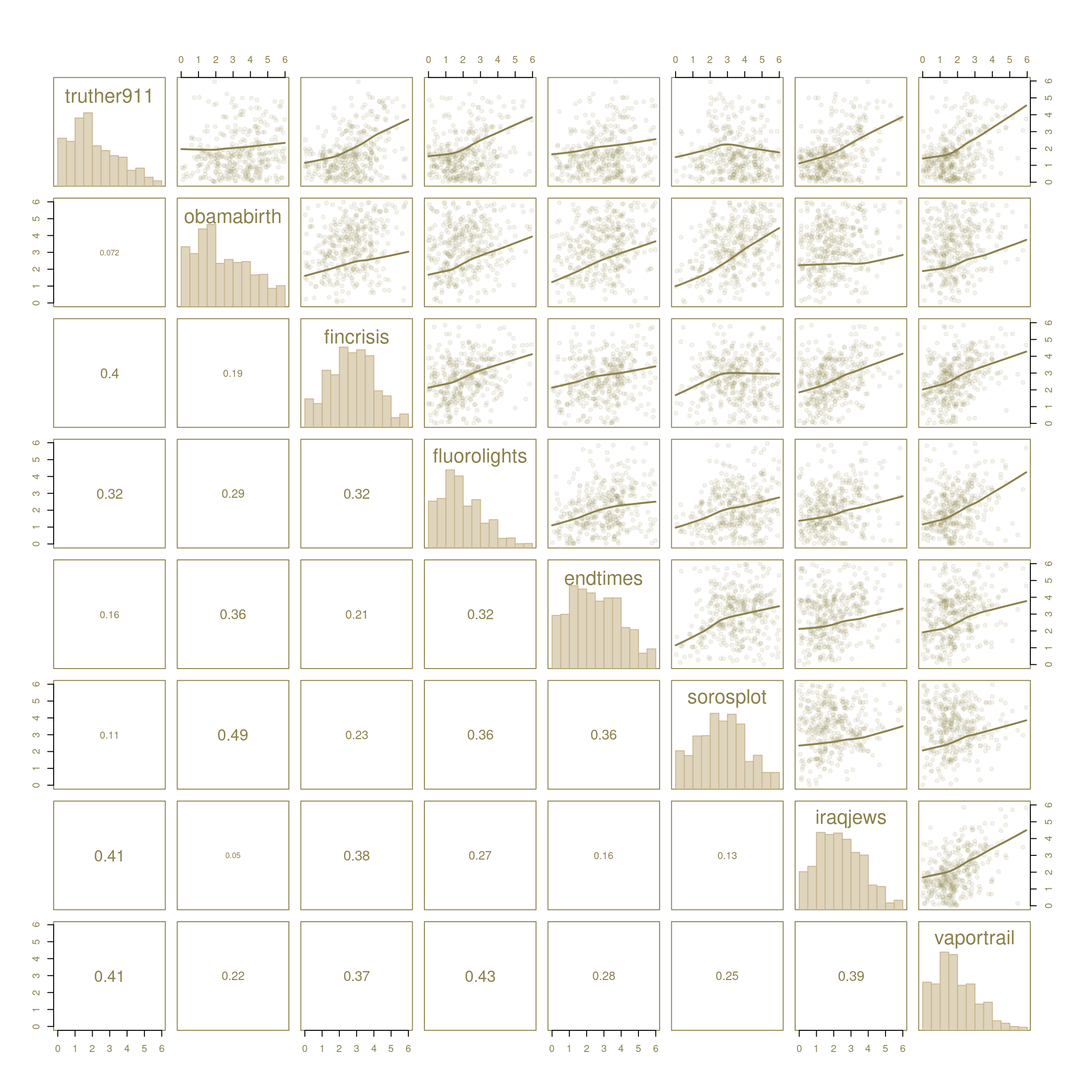
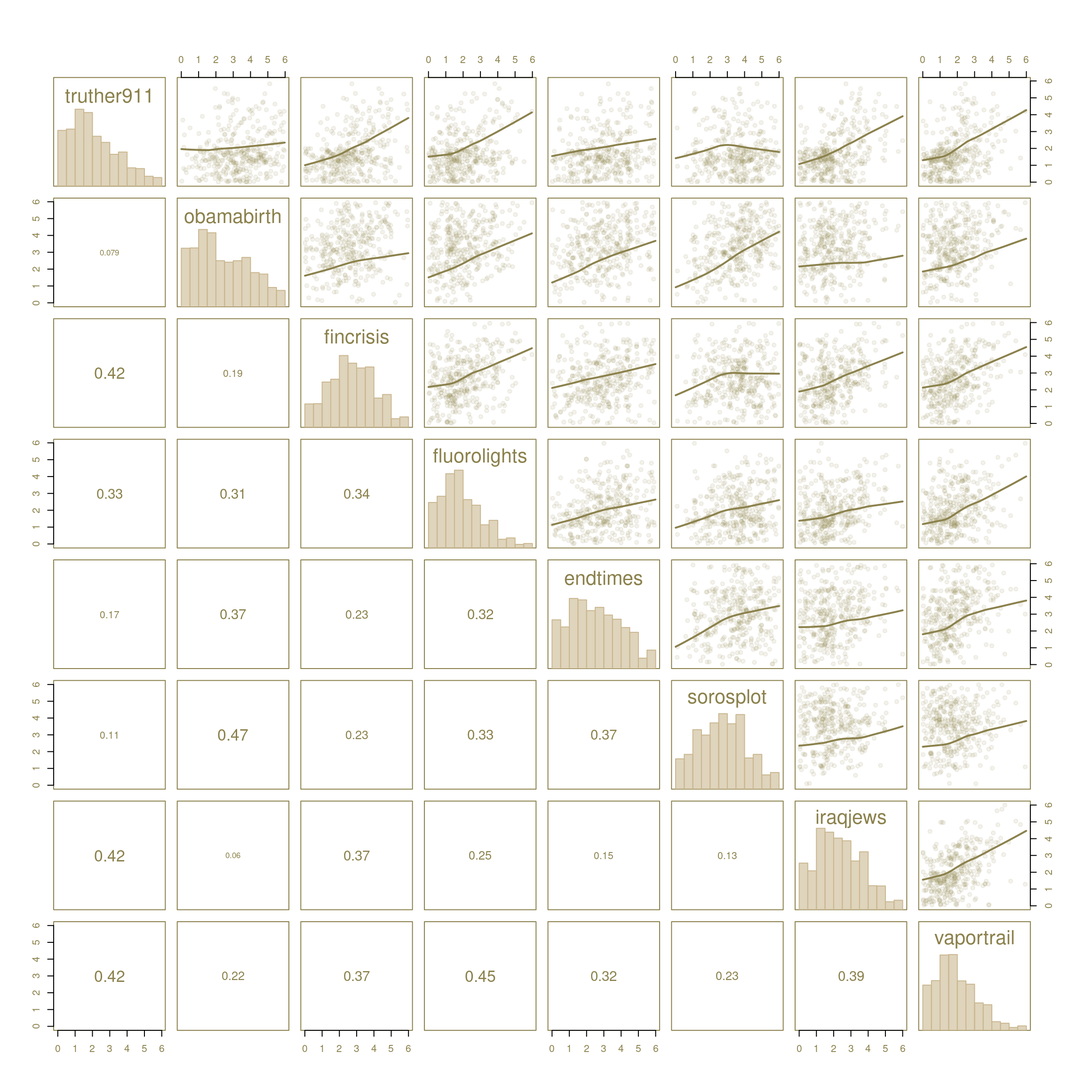
completed data description section, wrote explanation of plots for visualize data sections, wrote explanation for PCA section: pca fit summary table, screeplot, & biplot. pasted T's conclusion & added bibtex & tag for citation cross reference. added bibtex for original dataset & study.

diff --git a/index.html b/index.html
@@ -9,7 +9,7 @@
 <meta name="author" content="Brandy Carr">
 <meta name="author" content="Lee">
 <meta name="author" content="Tavish">
-<meta name="dcterms.date" content="2022-11-21">
+<meta name="dcterms.date" content="2022-11-22">
 
 <title>PCA (principal component analysis)</title>
 <style>
@@ -138,15 +138,15 @@ div.csl-indent {
   <li><a href="#introduction" id="toc-introduction" class="nav-link active" data-scroll-target="#introduction"><span class="toc-section-number">1</span>  Introduction</a></li>
   <li><a href="#methods" id="toc-methods" class="nav-link" data-scroll-target="#methods"><span class="toc-section-number">2</span>  Methods</a>
   <ul class="collapse">
-  <li><a href="#assumptions" id="toc-assumptions" class="nav-link" data-scroll-target="#assumptions"><span class="toc-section-number">2.1</span>  Assumptions</a></li>
-  <li><a href="#sample-data" id="toc-sample-data" class="nav-link" data-scroll-target="#sample-data"><span class="toc-section-number">2.2</span>  Sample Data</a></li>
-  <li><a href="#equations" id="toc-equations" class="nav-link" data-scroll-target="#equations"><span class="toc-section-number">2.3</span>  Equations</a></li>
+  <li><a href="#assumptions" id="toc-assumptions" class="nav-link" data-scroll-target="#assumptions">Assumptions</a></li>
+  <li><a href="#sample-data" id="toc-sample-data" class="nav-link" data-scroll-target="#sample-data">Sample Data</a></li>
+  <li><a href="#equations" id="toc-equations" class="nav-link" data-scroll-target="#equations">Equations</a></li>
   </ul></li>
   <li><a href="#analysis-and-results" id="toc-analysis-and-results" class="nav-link" data-scroll-target="#analysis-and-results"><span class="toc-section-number">3</span>  Analysis and Results</a>
   <ul class="collapse">
-  <li><a href="#packages" id="toc-packages" class="nav-link" data-scroll-target="#packages"><span class="toc-section-number">3.1</span>  Packages</a></li>
-  <li><a href="#data" id="toc-data" class="nav-link" data-scroll-target="#data"><span class="toc-section-number">3.2</span>  Data</a></li>
-  <li><a href="#pca" id="toc-pca" class="nav-link" data-scroll-target="#pca"><span class="toc-section-number">3.3</span>  PCA</a></li>
+  <li><a href="#packages" id="toc-packages" class="nav-link" data-scroll-target="#packages">Packages</a></li>
+  <li><a href="#data" id="toc-data" class="nav-link" data-scroll-target="#data">Data</a></li>
+  <li><a href="#pca" id="toc-pca" class="nav-link" data-scroll-target="#pca">PCA</a></li>
   </ul></li>
   <li><a href="#conclusion" id="toc-conclusion" class="nav-link" data-scroll-target="#conclusion"><span class="toc-section-number">4</span>  Conclusion</a></li>
   <li><a href="#references" id="toc-references" class="nav-link" data-scroll-target="#references"><span class="toc-section-number">5</span>  References</a></li>
@@ -176,7 +176,7 @@ div.csl-indent {
     <div>
     <div class="quarto-title-meta-heading">Published</div>
     <div class="quarto-title-meta-contents">
-      <p class="date">November 21, 2022</p>
+      <p class="date">November 22, 2022</p>
     </div>
   </div>
     
@@ -223,14 +223,6 @@ div.csl-indent {
 </style>
 <section id="introduction" class="level2" data-number="1">
 <h2 data-number="1" data-anchor-id="introduction"><span class="header-section-number">1</span> Introduction</h2>
-<ul>
-<li>Explains the background of research on a topic.</li>
-<li>Demonstrates why a topic is significant to a subject area.</li>
-<li>Discovers relationships between research studies/ideas.</li>
-<li>Identifies major themes, concepts, and researchers on a topic.</li>
-<li>Identifies critical gaps and points of disagreement.</li>
-<li>Discusses further research questions that logically come out of the previous studies.</li>
-</ul>
 <p>Principal Component Analysis (PCA) is an unsupervised machine learning method (<a href="#fig-machineLearning">Figure&nbsp;1</a>) that can be used as the first step in data analysis. The main goal of PCA is to reduce the number of dimensions/features while retaining most of the original variability. Reducing the number of features makes it easier to graphically visualize hidden patterns in the data, it’s also useful when encountering a high number of predictor variables or highly correlated variables when running a regression model <span class="citation" data-cites="lang2021applied">(<a href="#ref-lang2021applied" role="doc-biblioref">Lang and Qiu 2021</a>)</span>. Using a clustering algorithm, such as k-means, after the data has been transformed with PCA is a powerful method to use on high dimensional data containing linearly correlated features <span class="citation" data-cites="Alkha">(<a href="#ref-Alkha" role="doc-biblioref">Alkhayrat, Aljnidi, and Aljoumaa 2020</a>)</span>.</p>
 <p>The most important use of PCA is to represent a multivariate data table as smaller set of variables (summary indices) to observe hidden trends, jumps, clusters, patterns and outliers.</p>
 <p>PCA is a broadly used statistical method whose use stretches across many scientific disciplines, and in turn many different adaptations of PCA have been developed based on the variation in goals and data types associated with each respective discipline. PCA was developed first by Pearson (1901) and Hotelling (1933) <span class="citation" data-cites="Camargo">(<a href="#ref-Camargo" role="doc-biblioref">A 2022</a>)</span>. This technique transforms some number of possibly correlated variables into a smaller number of variables, the variables in this smaller matrix are referred to as the Principal Components (PC). This is achieved using a vector space transform. By mathematical projection we can interpret the original data set with just a few variables, namely the principal components achieved through calculation. The purpose of reducing dimension size in large data sets is to make it easier to spot trends, patterns, and outliers in data where that information would have previously been hidden by the size of data set of interest (Richardson). The information being preserved in the process of reduction is the variability in the data (i.e.&nbsp;the statistical information present in the data). In order to preserve as much variability as possible we should “…find new variables that are linear functions of those in the original data set, that successively maximize variance and that are uncorrelated with each other” <span class="citation" data-cites="Jolliffe">(<a href="#ref-Jolliffe" role="doc-biblioref">Jolliffe IT 2016</a>)</span>. PCA assumes no distribution in data in a descriptive context which is one of it’s key features that makes it so widely adaptive as an exploratory method across disciplines and data types <span class="citation" data-cites="Jolliffe">(<a href="#ref-Jolliffe" role="doc-biblioref">Jolliffe IT 2016</a>)</span>. To lists all of PCA’s applications would be tedious and excessive, but some examples where PCA has been used is in facial recognition, image analysis, analysis of web data, and cyber security analysis. Essentially anywhere that large data sets are found PCA can be used to aid in discovering trends amongst the variables of that data. One key field PCA has seen use is in the analysis of cyber security network data. PCA could see many applications in web data analysis as the amount of data for this purpose is always increasing and becoming more relevant.</p>
@@ -248,7 +240,7 @@ div.csl-indent {
 <h2 data-number="2" data-anchor-id="methods"><span class="header-section-number">2</span> Methods</h2>
 <p>PCA forms the basis of multivariate data analysis based on projection methods. The variability in the original (correlated) variables will be explained through a smaller (uncorrelated) set of new variables i.e.&nbsp;the principal components (PC’s). PCA results depend on the scale or units of the variables so, for unscaled data, calculations should either be preformed on the correlation matrix (instead of the covariance matrix) or the data should be standardized with mean 0 and variance 1 (z scores) <span class="citation" data-cites="lang2021applied">(<a href="#ref-lang2021applied" role="doc-biblioref">Lang and Qiu 2021</a>)</span>.</p>
 <div class="cell">
-<details>
+<details open="">
 <summary>Code</summary>
 <div class="sourceCode cell-code" id="cb1"><pre class="sourceCode numberSource default number-lines code-with-copy"><code class="sourceCode default"><span id="cb1-1"><a href="#cb1-1"></a>%%{init: {'theme': 'base', 'themeVariables': { 'background': '#FAFAF5', 'primaryColor': '#EAEAD6', 'nodeBorder': '#8B814C', 'lineColor': '#8B814C', 'primaryTextColor': '#191970', 'textColor': '#191970', 'fontSize': '12px', 'width': '100%'}}}%%</span>
 <span id="cb1-2"><a href="#cb1-2"></a></span>
@@ -289,8 +281,8 @@ H --&gt; I
 </div>
 </div>
 </div>
-<section id="assumptions" class="level3" data-number="2.1">
-<h3 data-number="2.1" data-anchor-id="assumptions"><span class="header-section-number">2.1</span> Assumptions</h3>
+<section id="assumptions" class="level3">
+<h3 data-anchor-id="assumptions">Assumptions</h3>
 <ul>
 <li>Variables should be continuous, interval or ratio level of measurement (ordinal variables, such as likert-scale, are also often used)</li>
 <li>Variables should all be the same scale/units (<a href="#eq-stdzData">Equation&nbsp;1</a>)</li>
@@ -298,8 +290,8 @@ H --&gt; I
 <li>Outliers &amp; missing or impossible values should be removed (see <a href="#sec-cleanData">Section&nbsp;3.2.1</a> for an example)</li>
 </ul>
 </section>
-<section id="sample-data" class="level3" data-number="2.2">
-<h3 data-number="2.2" data-anchor-id="sample-data"><span class="header-section-number">2.2</span> Sample Data</h3>
+<section id="sample-data" class="level3">
+<h3 data-anchor-id="sample-data">Sample Data</h3>
 <style type="text/css">
 .tg  {border-collapse:collapse;border-spacing:0;}
 .tg td{border-color:black;border-style:solid;border-width:1px;font-family:Arial, sans-serif;font-size:16px;
@@ -487,8 +479,8 @@ H --&gt; I
 
 </table>
 </section>
-<section id="equations" class="level3" data-number="2.3">
-<h3 data-number="2.3" data-anchor-id="equations"><span class="header-section-number">2.3</span> Equations</h3>
+<section id="equations" class="level3">
+<h3 data-anchor-id="equations">Equations</h3>
 <p><strong>Standardized Data:</strong> <span id="eq-stdzData"><span class="math display">\[{z_{ij}}\ =\ \frac{{x_{ij}} - {\overline{x_j}}} {\sqrt{\hat{\sigma_{jj}}}}, \ \ \ \ \ where\ \ \ \ i\ =\ \{1,2,...,n\}, \ \ \ \ j\ =\ \{1,2,...,p\} \tag{1}\]</span></span></p>
 <p><strong>Random Vector:</strong> <span id="eq-randomVector"><span class="math display">\[{x_i} = {({x_{i1}}, ... , {x_{ip}})}^T,\ \ \ \ \ \ \ \ \ where\ \ i\ =\ \{1,2,...,n\} \tag{2}\]</span></span></p>
 <p><strong>Sample Mean Vector:</strong> <span id="eq-meanVector"><span class="math display">\[\hat{\mu}\ \ =\ \ \overline{x}\ \ =\ \ \frac{1}{n} \sum_{i=1}^{n} x_i \tag{3}\]</span></span></p>
@@ -517,10 +509,10 @@ Note
 </section>
 <section id="analysis-and-results" class="level2" data-number="3">
 <h2 data-number="3" data-anchor-id="analysis-and-results"><span class="header-section-number">3</span> Analysis and Results</h2>
-<section id="packages" class="level3" data-number="3.1">
-<h3 data-number="3.1" data-anchor-id="packages"><span class="header-section-number">3.1</span> Packages</h3>
+<section id="packages" class="level3">
+<h3 data-anchor-id="packages">Packages</h3>
 <div class="cell">
-<details>
+<details open="">
 <summary>Code</summary>
 <div class="sourceCode cell-code" id="cb2"><pre class="sourceCode numberSource r number-lines code-with-copy"><code class="sourceCode r"><span id="cb2-1"><a href="#cb2-1"></a><span class="fu">library</span>(dplyr)</span>
 <span id="cb2-2"><a href="#cb2-2"></a><span class="fu">library</span>(ggplot2)</span>
@@ -534,22 +526,104 @@ Note
 </details>
 </div>
 </section>
-<section id="data" class="level3" data-number="3.2">
-<h3 data-number="3.2" data-anchor-id="data"><span class="header-section-number">3.2</span> Data</h3>
-<p>About Dataset Context Data from the study: Oliver, J. E., &amp; Wood, T. J. (2014). Conspiracy Theories and the Paranoid Style(s) of Mass Opinion. American Journal of Political Science, 58(4), 952–966. http://www.jstor.org/stable/24363536</p>
-<p>Content Results of 2000 respondents answering a 5-point Likert scale of their belief in various conspiracies</p>
-<p>Acknowledgements This is not my data. It was made publically available by the authors at this URL: https://dataverse.harvard.edu/dataset.xhtml?persistentId=doi:10.7910/DVN/22976</p>
-<p>Abstract Although conspiracy theories have long been a staple of American political culture, no research has systematically examined the nature of their support in the mass public. Using four nationally representative surveys, sampled between 2006 and 2011, we find that half of the American public consistently endorses at least one conspiracy theory and that many popular conspiracy theories are differentiated along ideological and anomic dimensions. In contrast with many theoretical speculations, we do not find conspiracism to be a product of greater authoritarianism, ignorance, or political conservatism. Rather, the likelihood of supporting conspiracy theories is strongly predicted by a willingness to believe in other unseen, intentional forces and an attraction to Manichean narratives. These findings both demonstrate the widespread allure of conspiracy theories as political explanations and offer new perspectives on the forces that shape mass opinion and American political culture.</p>
-<p>This research was supported by a research grant from the University of Chicago. We are grateful to Betsy Sinclair, Kirk Hawkins, and attendees at the 2011 CCES conference for their suggestions on this research. Replication data and code for this article may be found at the AJPS Dataverse website at https://thedata.harvard.edu/dvn/dv/ajps.</p>
-<p>VARIABLES</p>
+<section id="data" class="level3">
+<h3 data-anchor-id="data">Data</h3>
+<p>Results of 2000 respondents answering a 5-point Likert scale of their belief in various conspiracies. Sampled from a nationally representative survey in 2011. (Replication data and code may be found at the AJPS Dataverse website - <a href="">https://thedata.harvard.edu/dvn/dv/ajps</a>) <span class="citation" data-cites="originalConspiracyData">(<a href="#ref-originalConspiracyData" role="doc-biblioref">Oliver and Wood 2013</a>)</span></p>
+<p><strong>SCALE LEVELS:</strong></p>
+<style type="text/css">
+.tg  {border-collapse:collapse;border-spacing:0;}
+.tg td{border-color:black;border-style:solid;border-width:1px;font-family:Arial, sans-serif;font-size:14px;
+  overflow:hidden;padding:10px 5px;word-break:normal;}
+.tg th{border-color:black;border-style:solid;border-width:1px;font-family:Arial, sans-serif;font-size:14px;
+  font-weight:normal;overflow:hidden;padding:10px 5px;word-break:normal;}
+.tg .tg-baqh{text-align:center;vertical-align:top}
+.tg .tg-amwm{font-weight:bold;text-align:center;vertical-align:top}
+</style>
+
+<table class="tg" style="undefined;table-layout: fixed; width: 258px">
+<colgroup>
+<col style="width: 163px">
+<col style="width: 95px">
+</colgroup>
+<thead>
+<tr>
+<th class="tg-amwm">
+Label
+</th>
+<th class="tg-amwm">
+Level
+</th>
+</tr>
+</thead>
+<tbody>
+<tr>
+<td class="tg-baqh">
+Strongly Disagree
+</td>
+<td class="tg-baqh">
+1
+</td>
+</tr>
+<tr>
+<td class="tg-baqh">
+Disagree
+</td>
+<td class="tg-baqh">
+2
+</td>
+</tr>
+<tr>
+<td class="tg-baqh">
+Neither
+</td>
+<td class="tg-baqh">
+3
+</td>
+</tr>
+<tr>
+<td class="tg-baqh">
+Agree
+</td>
+<td class="tg-baqh">
+4
+</td>
+</tr>
+<tr>
+<td class="tg-baqh">
+Strongly Agree
+</td>
+<td class="tg-baqh">
+5
+</td>
+</tr>
+</tbody>
+
+</table>
+<p><strong>VARIABLES:</strong></p>
 <ul>
-<li><strong>truther911: </strong>Certain U.S. government officials planned the attacks of September 11, 2001, because they wanted the United States to go to war in the Middle East</li>
-<li><strong>iraqjews: </strong>The U.S. invasion of Iraq was not part of a campaign to fight terrorism, but was driven by oil companies and Jews in the U.S. and Israel</li>
+<li><strong>truther911:</strong> Certain U.S. government officials planned the attacks of September 11, 2001, because they wanted the United States to go to war in the Middle East.</li>
+<li><strong>obamabirth:</strong> President Barack Obama was not really born in the United States and does not have an authentic Hawaiian birth certificate.</li>
+<li><strong>fincrisis:</strong> The current financial crisis was secretly orchestrated by a small group of Wall Street bankers to extend the power of the Federal Reserve and further their control of the world’s economy.</li>
+<li><strong>flourolights:</strong> The U.S. government is mandating the switch to compact fluorescent light bulbs because such lights make people more obedient and easier to control.</li>
+<li><strong>endtimes:</strong> We are currently living in End Times as foretold by Biblical prophecy.</li>
+<li><strong>sorosplot:</strong> Billionaire George Soros is behind a hidden plot to destabilize the American government, take control of the media, and put the world under his control.</li>
+<li><strong>iraqjews:</strong> The U.S. invasion of Iraq was not part of a campaign to fight terrorism, but was driven by oil companies and Jews in the U.S. and Israel.</li>
+<li><strong>vaportrail:</strong> Vapor trails left by aircraft are actually chemical agents deliberately sprayed in a clandestine program directed by government officials.</li>
 </ul>
-<section id="sec-cleanData" class="level4" data-number="3.2.1">
-<h4 data-number="3.2.1" data-anchor-id="sec-cleanData"><span class="header-section-number">3.2.1</span> Read &amp; Clean Data</h4>
+<p><strong>GROUPING FACTOR (y = political ideology):</strong></p>
+<ul>
+<li>Very Liberal</li>
+<li>Liberal</li>
+<li>Somewhat Liberal</li>
+<li>Middle of the Road</li>
+<li>Somewhat Conservative</li>
+<li>Conservative</li>
+<li>Very Conservative</li>
+</ul>
+<section id="sec-cleanData" class="level4">
+<h4 data-anchor-id="sec-cleanData">Read &amp; Clean Data</h4>
 <div class="cell">
-<details>
+<details open="">
 <summary>Code</summary>
 <div class="sourceCode cell-code" id="cb3"><pre class="sourceCode numberSource r number-lines code-with-copy"><code class="sourceCode r"><span id="cb3-1"><a href="#cb3-1"></a><span class="co"># READ DATA FROM A GITHUB CSV FILE</span></span>
 <span id="cb3-2"><a href="#cb3-2"></a>conspiracy<span class="ot">&lt;-</span> (<span class="fu">read.csv</span>(<span class="st">"https://raw.githubusercontent.com/bjcarr08/sampleData/main/kaggleConspiracyTheoriesData.csv"</span>, <span class="at">stringsAsFactors =</span> T))[,<span class="sc">-</span><span class="dv">1</span>]</span>
@@ -559,10 +633,12 @@ Note
 </details>
 </div>
 </section>
-<section id="sec-linearity" class="level4" data-number="3.2.2">
-<h4 data-number="3.2.2" data-anchor-id="sec-linearity"><span class="header-section-number">3.2.2</span> Visualize Data</h4>
+<section id="sec-linearity" class="level4">
+<h4 data-anchor-id="sec-linearity">Visualize Data</h4>
+<p>Visually checking if linearity between variables assumption is met (not a strictly help assumption, especially when using ordinal data).</p>
+<p>The correlation matrix plots show enough of a relationship between variables to meet the assumption of linearity.</p>
 <div class="cell">
-<details>
+<details open="">
 <summary>Code</summary>
 <div class="sourceCode cell-code" id="cb4"><pre class="sourceCode numberSource r number-lines code-with-copy"><code class="sourceCode r"><span id="cb4-1"><a href="#cb4-1"></a><span class="co"># SCATTER PLOT MATRICES: TO CHECK LINEARITY ASSUMPTION</span></span>
 <span id="cb4-2"><a href="#cb4-2"></a><span class="fu">par</span>(<span class="at">col.axis=</span><span class="st">"#8B814C"</span>,<span class="at">col.lab=</span><span class="st">"#8B814C"</span>,<span class="at">col.main=</span><span class="st">"#8B814C"</span>,<span class="at">col.sub=</span><span class="st">"#8B814C"</span>,<span class="at">pch=</span><span class="dv">20</span>, <span class="at">col=</span><span class="st">"#8B814C"</span>, <span class="at">bg=</span><span class="st">"transparent"</span>)</span>
@@ -576,7 +652,7 @@ Note
 </div>
 </div>
 <div class="cell">
-<details>
+<details open="">
 <summary>Code</summary>
 <div class="sourceCode cell-code" id="cb5"><pre class="sourceCode numberSource r number-lines code-with-copy"><code class="sourceCode r"><span id="cb5-1"><a href="#cb5-1"></a><span class="co"># TRANSFORM TO LONG DATA FOR PLOTS</span></span>
 <span id="cb5-2"><a href="#cb5-2"></a>conspiracy.Long<span class="ot">&lt;-</span> conspiracy <span class="sc">%&gt;%</span> <span class="fu">pivot_longer</span>(<span class="sc">!</span>y, <span class="at">names_to=</span><span class="st">"conspiracy"</span>, <span class="at">values_to=</span><span class="st">"score"</span>, <span class="at">values_transform=</span><span class="fu">list</span>(<span class="at">score=</span>as.numeric))</span>
@@ -601,33 +677,33 @@ Note
 <p><img src="index_files/figure-html/plot1-1.png" class="img-fluid" width="1152"></p>
 </div>
 </div>
+<p>Looking at the distribution plots above, we can see that all variables are measured in the same scale/units &amp; do not need to be standardized.</p>
 </section>
 </section>
-<section id="pca" class="level3" data-number="3.3">
-<h3 data-number="3.3" data-anchor-id="pca"><span class="header-section-number">3.3</span> PCA</h3>
+<section id="pca" class="level3">
+<h3 data-anchor-id="pca">PCA</h3>
 <div class="cell">
-<details>
+<details open="">
 <summary>Code</summary>
 <div class="sourceCode cell-code" id="cb6"><pre class="sourceCode numberSource r number-lines code-with-copy"><code class="sourceCode r"><span id="cb6-1"><a href="#cb6-1"></a><span class="fu">options</span>(<span class="at">width =</span> <span class="dv">100</span>)</span>
 <span id="cb6-2"><a href="#cb6-2"></a></span>
-<span id="cb6-3"><a href="#cb6-3"></a><span class="co"># STANDARDIZE DATA</span></span>
-<span id="cb6-4"><a href="#cb6-4"></a><span class="co">#conspiracy.Stdz&lt;- conspiracy %&gt;% mutate(across(.cols=truther911:vaportrail, scale))</span></span>
-<span id="cb6-5"><a href="#cb6-5"></a><span class="co">#conspiracy&lt;- conspiracy %&gt;% mutate(across(.cols=truther911:vaportrail, scale))</span></span>
-<span id="cb6-6"><a href="#cb6-6"></a></span>
-<span id="cb6-7"><a href="#cb6-7"></a><span class="co"># RE-LEVEL POLITICAL IDEOLOGY (Very Liberal - Very Conservative)</span></span>
-<span id="cb6-8"><a href="#cb6-8"></a>conspiracy<span class="sc">$</span>y<span class="ot">&lt;-</span> <span class="fu">factor</span>(conspiracy<span class="sc">$</span>y, <span class="at">levels=</span><span class="fu">c</span>(<span class="st">"Very Liberal"</span>, <span class="st">"Liberal"</span>, <span class="st">"Somewhat Liberal"</span>, <span class="st">"Middle of the Road"</span>, <span class="st">"Somewhat Conservative"</span>, <span class="st">"Conservative"</span>, <span class="st">"Very Conservative"</span>))</span>
-<span id="cb6-9"><a href="#cb6-9"></a></span>
-<span id="cb6-10"><a href="#cb6-10"></a><span class="co"># RE-NAMED VARIABLE 'y'</span></span>
-<span id="cb6-11"><a href="#cb6-11"></a><span class="fu">names</span>(conspiracy)[<span class="dv">9</span>]<span class="ot">&lt;-</span> <span class="st">"PoliticalIdeology"</span></span>
-<span id="cb6-12"><a href="#cb6-12"></a></span>
-<span id="cb6-13"><a href="#cb6-13"></a><span class="co"># DATA FOR PCA FUNCTION (only keep numeric variables)</span></span>
-<span id="cb6-14"><a href="#cb6-14"></a>df<span class="ot">&lt;-</span> conspiracy[,<span class="sc">-</span><span class="dv">9</span>]</span>
-<span id="cb6-15"><a href="#cb6-15"></a></span>
-<span id="cb6-16"><a href="#cb6-16"></a><span class="co"># PCA</span></span>
-<span id="cb6-17"><a href="#cb6-17"></a><span class="co">#pc1&lt;- prcomp(df, scale.=T)</span></span>
-<span id="cb6-18"><a href="#cb6-18"></a>pc1<span class="ot">&lt;-</span> <span class="fu">prcomp</span>(df)</span>
-<span id="cb6-19"><a href="#cb6-19"></a></span>
-<span id="cb6-20"><a href="#cb6-20"></a><span class="fu">summary</span>(pc1)</span></code><button title="Copy to Clipboard" class="code-copy-button"><i class="bi"></i></button></pre></div>
+<span id="cb6-3"><a href="#cb6-3"></a><span class="co"># STANDARDIZE DATA [SKIP]</span></span>
+<span id="cb6-4"><a href="#cb6-4"></a><span class="co">#conspiracy&lt;- conspiracy %&gt;% mutate(across(.cols=truther911:vaportrail, scale))</span></span>
+<span id="cb6-5"><a href="#cb6-5"></a></span>
+<span id="cb6-6"><a href="#cb6-6"></a><span class="co"># RE-LEVEL POLITICAL IDEOLOGY (Very Liberal - Very Conservative)</span></span>
+<span id="cb6-7"><a href="#cb6-7"></a>conspiracy<span class="sc">$</span>y<span class="ot">&lt;-</span> <span class="fu">factor</span>(conspiracy<span class="sc">$</span>y, <span class="at">levels=</span><span class="fu">c</span>(<span class="st">"Very Liberal"</span>, <span class="st">"Liberal"</span>, <span class="st">"Somewhat Liberal"</span>, <span class="st">"Middle of the Road"</span>, <span class="st">"Somewhat Conservative"</span>, <span class="st">"Conservative"</span>, <span class="st">"Very Conservative"</span>))</span>
+<span id="cb6-8"><a href="#cb6-8"></a></span>
+<span id="cb6-9"><a href="#cb6-9"></a><span class="co"># RE-NAMED VARIABLE 'y'</span></span>
+<span id="cb6-10"><a href="#cb6-10"></a><span class="fu">names</span>(conspiracy)[<span class="dv">9</span>]<span class="ot">&lt;-</span> <span class="st">"PoliticalIdeology"</span></span>
+<span id="cb6-11"><a href="#cb6-11"></a></span>
+<span id="cb6-12"><a href="#cb6-12"></a><span class="co"># DATA FOR PCA FUNCTION (only keep numeric variables)</span></span>
+<span id="cb6-13"><a href="#cb6-13"></a>df<span class="ot">&lt;-</span> conspiracy[,<span class="sc">-</span><span class="dv">9</span>]</span>
+<span id="cb6-14"><a href="#cb6-14"></a></span>
+<span id="cb6-15"><a href="#cb6-15"></a><span class="co"># PCA</span></span>
+<span id="cb6-16"><a href="#cb6-16"></a><span class="co">#pc1&lt;- prcomp(df, scale.=T)</span></span>
+<span id="cb6-17"><a href="#cb6-17"></a>pc1<span class="ot">&lt;-</span> <span class="fu">prcomp</span>(df)</span>
+<span id="cb6-18"><a href="#cb6-18"></a></span>
+<span id="cb6-19"><a href="#cb6-19"></a><span class="fu">summary</span>(pc1)</span></code><button title="Copy to Clipboard" class="code-copy-button"><i class="bi"></i></button></pre></div>
 </details>
 <div class="cell-output cell-output-stdout">
 <pre><code>Importance of components:
@@ -637,10 +713,12 @@ Proportion of Variance 0.4256 0.2027 0.09081 0.0669 0.06306 0.05966 0.05214 0.03
 Cumulative Proportion  0.4256 0.6284 0.71917 0.7861 0.84913 0.90880 0.96093 1.00000</code></pre>
 </div>
 </div>
-<section id="scree-plot" class="level4" data-number="3.3.1">
-<h4 data-number="3.3.1" data-anchor-id="scree-plot"><span class="header-section-number">3.3.1</span> Scree-Plot</h4>
+<p>From the table directly above (Importance of components), we are mainly focused on the first 2 columns or principal components. Looking at the second row in the table, Proportion of Variance, the first PC accounts for about 43% of total variation &amp; the second PC accounts for about 20%, with the rest of the PC’s each accounting for about 9% or less. To use PCA, the threshold for Cumulative Proportion is usually at least 70%-80%, but this is just a guideline as there are no set rules.</p>
+<section id="scree-plot" class="level4">
+<h4 data-anchor-id="scree-plot">Scree-Plot</h4>
+<p>This plot visually represents the ‘Proportion of Variance’ from the previous table. Here it is easy to see the drop off after the second PC. This type of plot can be used to help decide how many PC’s should be used/kept.</p>
 <div class="cell">
-<details>
+<details open="">
 <summary>Code</summary>
 <div class="sourceCode cell-code" id="cb8"><pre class="sourceCode numberSource r number-lines code-with-copy"><code class="sourceCode r"><span id="cb8-1"><a href="#cb8-1"></a><span class="fu">par</span>(<span class="at">col.axis=</span><span class="st">"#8B814C"</span>,<span class="at">col.lab=</span><span class="st">"#8B814C"</span>,<span class="at">col.main=</span><span class="st">"#8B814C"</span>,<span class="at">col.sub=</span><span class="st">"#8B814C"</span>,<span class="at">pch=</span><span class="dv">20</span>, <span class="at">col=</span><span class="st">"#8B814C"</span>, <span class="at">bg=</span><span class="st">"transparent"</span>)</span>
 <span id="cb8-2"><a href="#cb8-2"></a><span class="fu">screeplot</span>(<span class="fu">princomp</span>(df), <span class="at">type=</span><span class="st">"lines"</span>, <span class="at">bg=</span><span class="st">"transparent"</span>, <span class="at">col=</span><span class="st">"#8B814C"</span>, <span class="at">main=</span><span class="st">""</span>)</span></code><button title="Copy to Clipboard" class="code-copy-button"><i class="bi"></i></button></pre></div>
@@ -650,10 +728,11 @@ Cumulative Proportion  0.4256 0.6284 0.71917 0.7861 0.84913 0.90880 0.96093 1.00
 </div>
 </div>
 </section>
-<section id="biplot" class="level4" data-number="3.3.2">
-<h4 data-number="3.3.2" data-anchor-id="biplot"><span class="header-section-number">3.3.2</span> Biplot</h4>
+<section id="biplot" class="level4">
+<h4 data-anchor-id="biplot">Biplot</h4>
+<p>In this plot we see the eigenvectors (points) &amp; eigenvalues (arrows). PCA can only be interpreted in either the x direction (horizontal distances) or in the y direction (vertical distances), but not both. Although the first PC is about 43% of variance, there is no distinction between political ideology groups in the horizontal plane. But, we do see a pattern in the vertical direction, specifically obamabirth &amp; sorosplot consisting of more conservative ideology, and iraqjews and truther911 with more liberal ideology.</p>
 <div class="cell">
-<details>
+<details open="">
 <summary>Code</summary>
 <div class="sourceCode cell-code" id="cb9"><pre class="sourceCode numberSource r number-lines code-with-copy"><code class="sourceCode r"><span id="cb9-1"><a href="#cb9-1"></a><span class="fu">autoplot</span>(pc1,</span>
 <span id="cb9-2"><a href="#cb9-2"></a>  <span class="co"># AUTOPLOT OPTIONS</span></span>
@@ -680,11 +759,11 @@ Cumulative Proportion  0.4256 0.6284 0.71917 0.7861 0.84913 0.90880 0.96093 1.00
 </div>
 </div>
 </section>
-<section id="loadings" class="level4" data-number="3.3.3">
-<h4 data-number="3.3.3" data-anchor-id="loadings"><span class="header-section-number">3.3.3</span> Loadings</h4>
+<section id="loadings" class="level4">
+<h4 data-anchor-id="loadings">Loadings</h4>
 <p>The matrix of variable loadings (i.e., a matrix whose columns contain the eigenvectors).</p>
 <div class="cell">
-<details>
+<details open="">
 <summary>Code</summary>
 <div class="sourceCode cell-code" id="cb10"><pre class="sourceCode numberSource r number-lines code-with-copy"><code class="sourceCode r"><span id="cb10-1"><a href="#cb10-1"></a>(<span class="fu">princomp</span>(df))<span class="sc">$</span>loadings</span></code><button title="Copy to Clipboard" class="code-copy-button"><i class="bi"></i></button></pre></div>
 </details>
@@ -712,6 +791,7 @@ Cumulative Var  0.125  0.250  0.375  0.500  0.625  0.750  0.875  1.000</code></p
 </section>
 <section id="conclusion" class="level2" data-number="4">
 <h2 data-number="4" data-anchor-id="conclusion"><span class="header-section-number">4</span> Conclusion</h2>
+<p>PCA is a very powerful tool for data analysis. It allows us to see patterns and trends hidden in large sets of data that would otherwise be very difficult to make out. PCA is also very flexible in its application which is why it sees use in so many different fields. This flexibility has also led to many different adaptations of the method, each with its own variations added to adapt to the task at hand. Large data sets are extremely common amongst many different fields of study. Principal component analysis requires no assumption of a distribution and can be applied to many types of numerical data. PCA can map the principal components to a 2-D plane and create a cluster we can visualize and use to analyze the data set. We can also just focus on the principal components themselves and draw conclusions from them when visualization is not a valid option. PCA’s strength is that it retains as much variance in the data as possible while increasing the interpretability of the data and while it is sensitive to scaling it remains a very useful method of analysis. PCA has been found to be useful when performing k-means clustering which by itself is a clustering method with countless applications. With all of the flexibility and usefulness of PCA taken into consideration it is easy to see why it is such a popular way to analyze large data sets across so many fields. As long as there are large data sets there will be a demand to reduce the dimension of that data and make valid interpretations about the trends present in that data, to this end we have PCA. <span class="citation" data-cites="Richardson">(<a href="#ref-Richardson" role="doc-biblioref">Richardson 2009</a>)</span></p>
 </section>
 <section id="references" class="level2 unnumbered bibliography" style="background-color: #FAFAF5; color: #8B814C" data-number="5">
 
@@ -739,6 +819,12 @@ Jones, Payton, Patrick Mair, and Richard McNally. 2018. <span>“Visualizing Psy
 </div>
 <div id="ref-lang2021applied" class="csl-entry" role="doc-biblioentry">
 Lang, WU, and Jin Qiu. 2021. <em>Applied Multivariate Statistical Analysis and Related Topics with r</em>. edp sciences.
+</div>
+<div id="ref-originalConspiracyData" class="csl-entry" role="doc-biblioentry">
+Oliver, J. Eric, and Thomas J. Wood. 2013. <span>“<span class="nocase">Replication data for: Conspiracy Theories and the Paranoid Style(s) of Mass Opinion</span>.”</span> Harvard Dataverse. <a href="https://doi.org/10.7910/DVN/22976">https://doi.org/10.7910/DVN/22976</a>.
+</div>
+<div id="ref-Richardson" class="csl-entry" role="doc-biblioentry">
+Richardson, M. 2009. <span>“Principal Component Analysis.”</span>
 </div>
 </div></section></div></main>
 <!-- /main column -->
